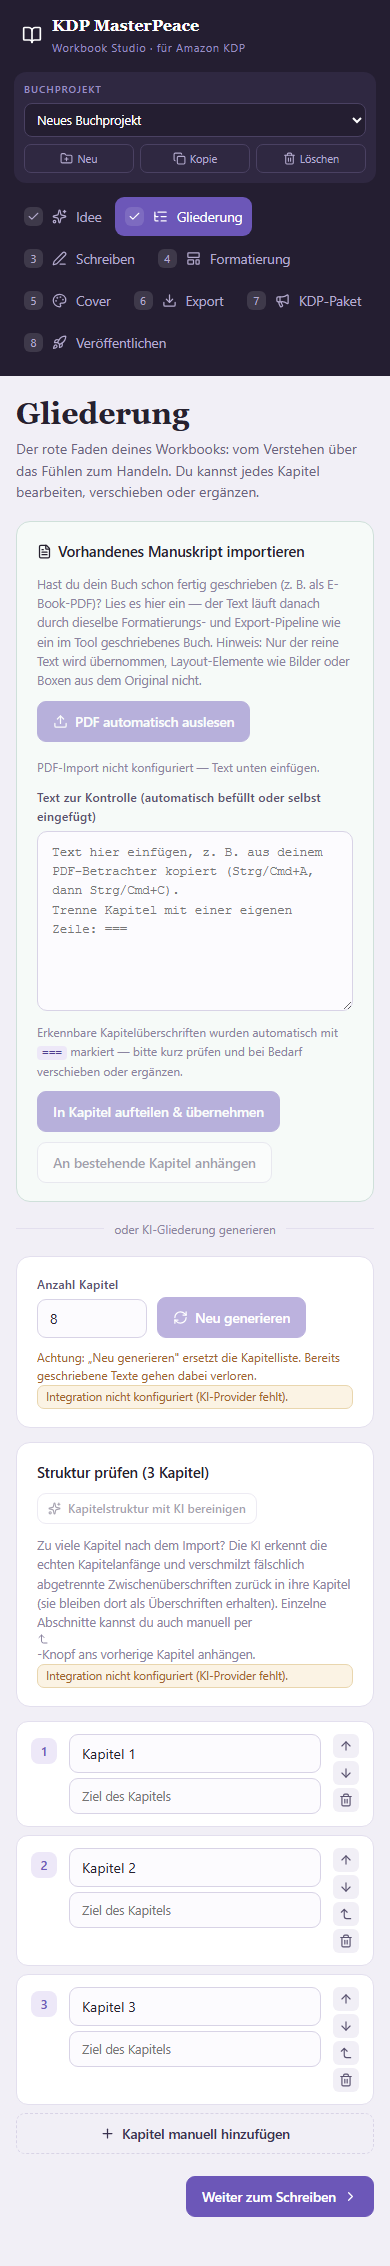
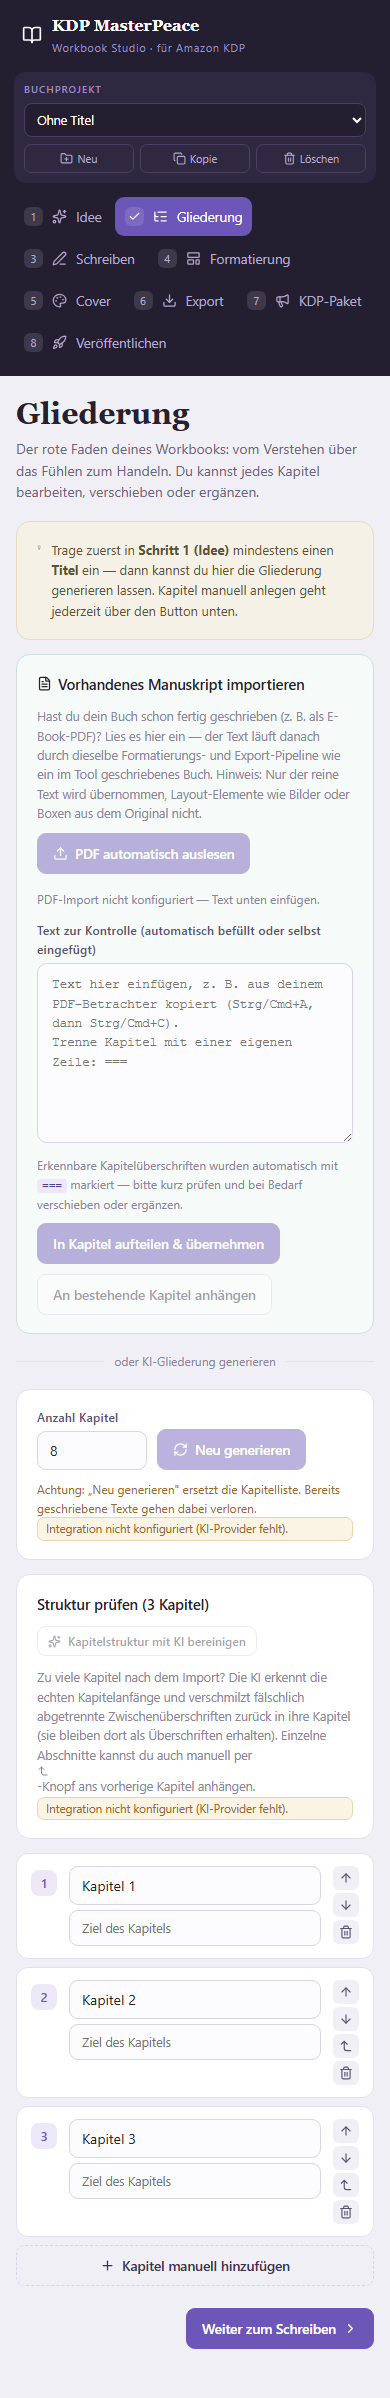
fix(studio): show Gliederung "Titel fehlt"-Hinweis for untitled projects
The Legacy hint card (cream .card.hint, Lightbulb icon, bold "Schritt 1 (Idee)"
and "Titel") was already in the template but never appeared, because new
projects were created with the title "Neues Buchprojekt" — so hasConcept was
always true. Fixed to match the reference (emptyProject.title = ""):

- createProject now creates an untitled project (title ""); the switcher falls
  back to "Ohne Titel" exactly like the reference (project.title || "Ohne Titel").
- hasConcept uses title.trim().length > 0, so the hint shows while the title is
  empty/whitespace and hides as soon as a real title is entered.
- gliederung-shots.mjs leaves the title empty so the hint renders in the
  captured screenshots.

Screenshots updated (desktop 1440x900 + mobile 390x844). Checks: prod build,
prettier, file-size/function-size/jsdoc/console, lint, unit tests (9/9) and the
emulator flow test (8/8) all pass.

diff --git a/apps/studio-web/src/app/studio/studio-shell.ts b/apps/studio-web/src/app/studio/studio-shell.ts
@@ -121,9 +121,9 @@ export class StudioShellComponent {
     if (!this.projectId() && list.length) void this.open(list[0].id);
   }
 
-  /** Creates a new project and opens it. */
+  /** Creates a new (untitled) project and opens it (Legacy: emptyProject.title=""). */
   protected async createProject(): Promise<void> {
-    const created = await this.store.create('Neues Buchprojekt');
+    const created = await this.store.create('');
     await this.refreshProjects();
     await this.open(created.id);
   }

diff --git a/apps/studio-web/src/app/studio/steps/gliederung-step.ts b/apps/studio-web/src/app/studio/steps/gliederung-step.ts
@@ -51,7 +51,7 @@ export class GliederungStepComponent {
     () => this.active.current()?.outline ?? [],
   );
   protected readonly hasConcept = computed(
-    () => !!this.active.current()?.title,
+    () => (this.active.current()?.title ?? '').trim().length > 0,
   );
 
   protected readonly fileIcon = FileText;